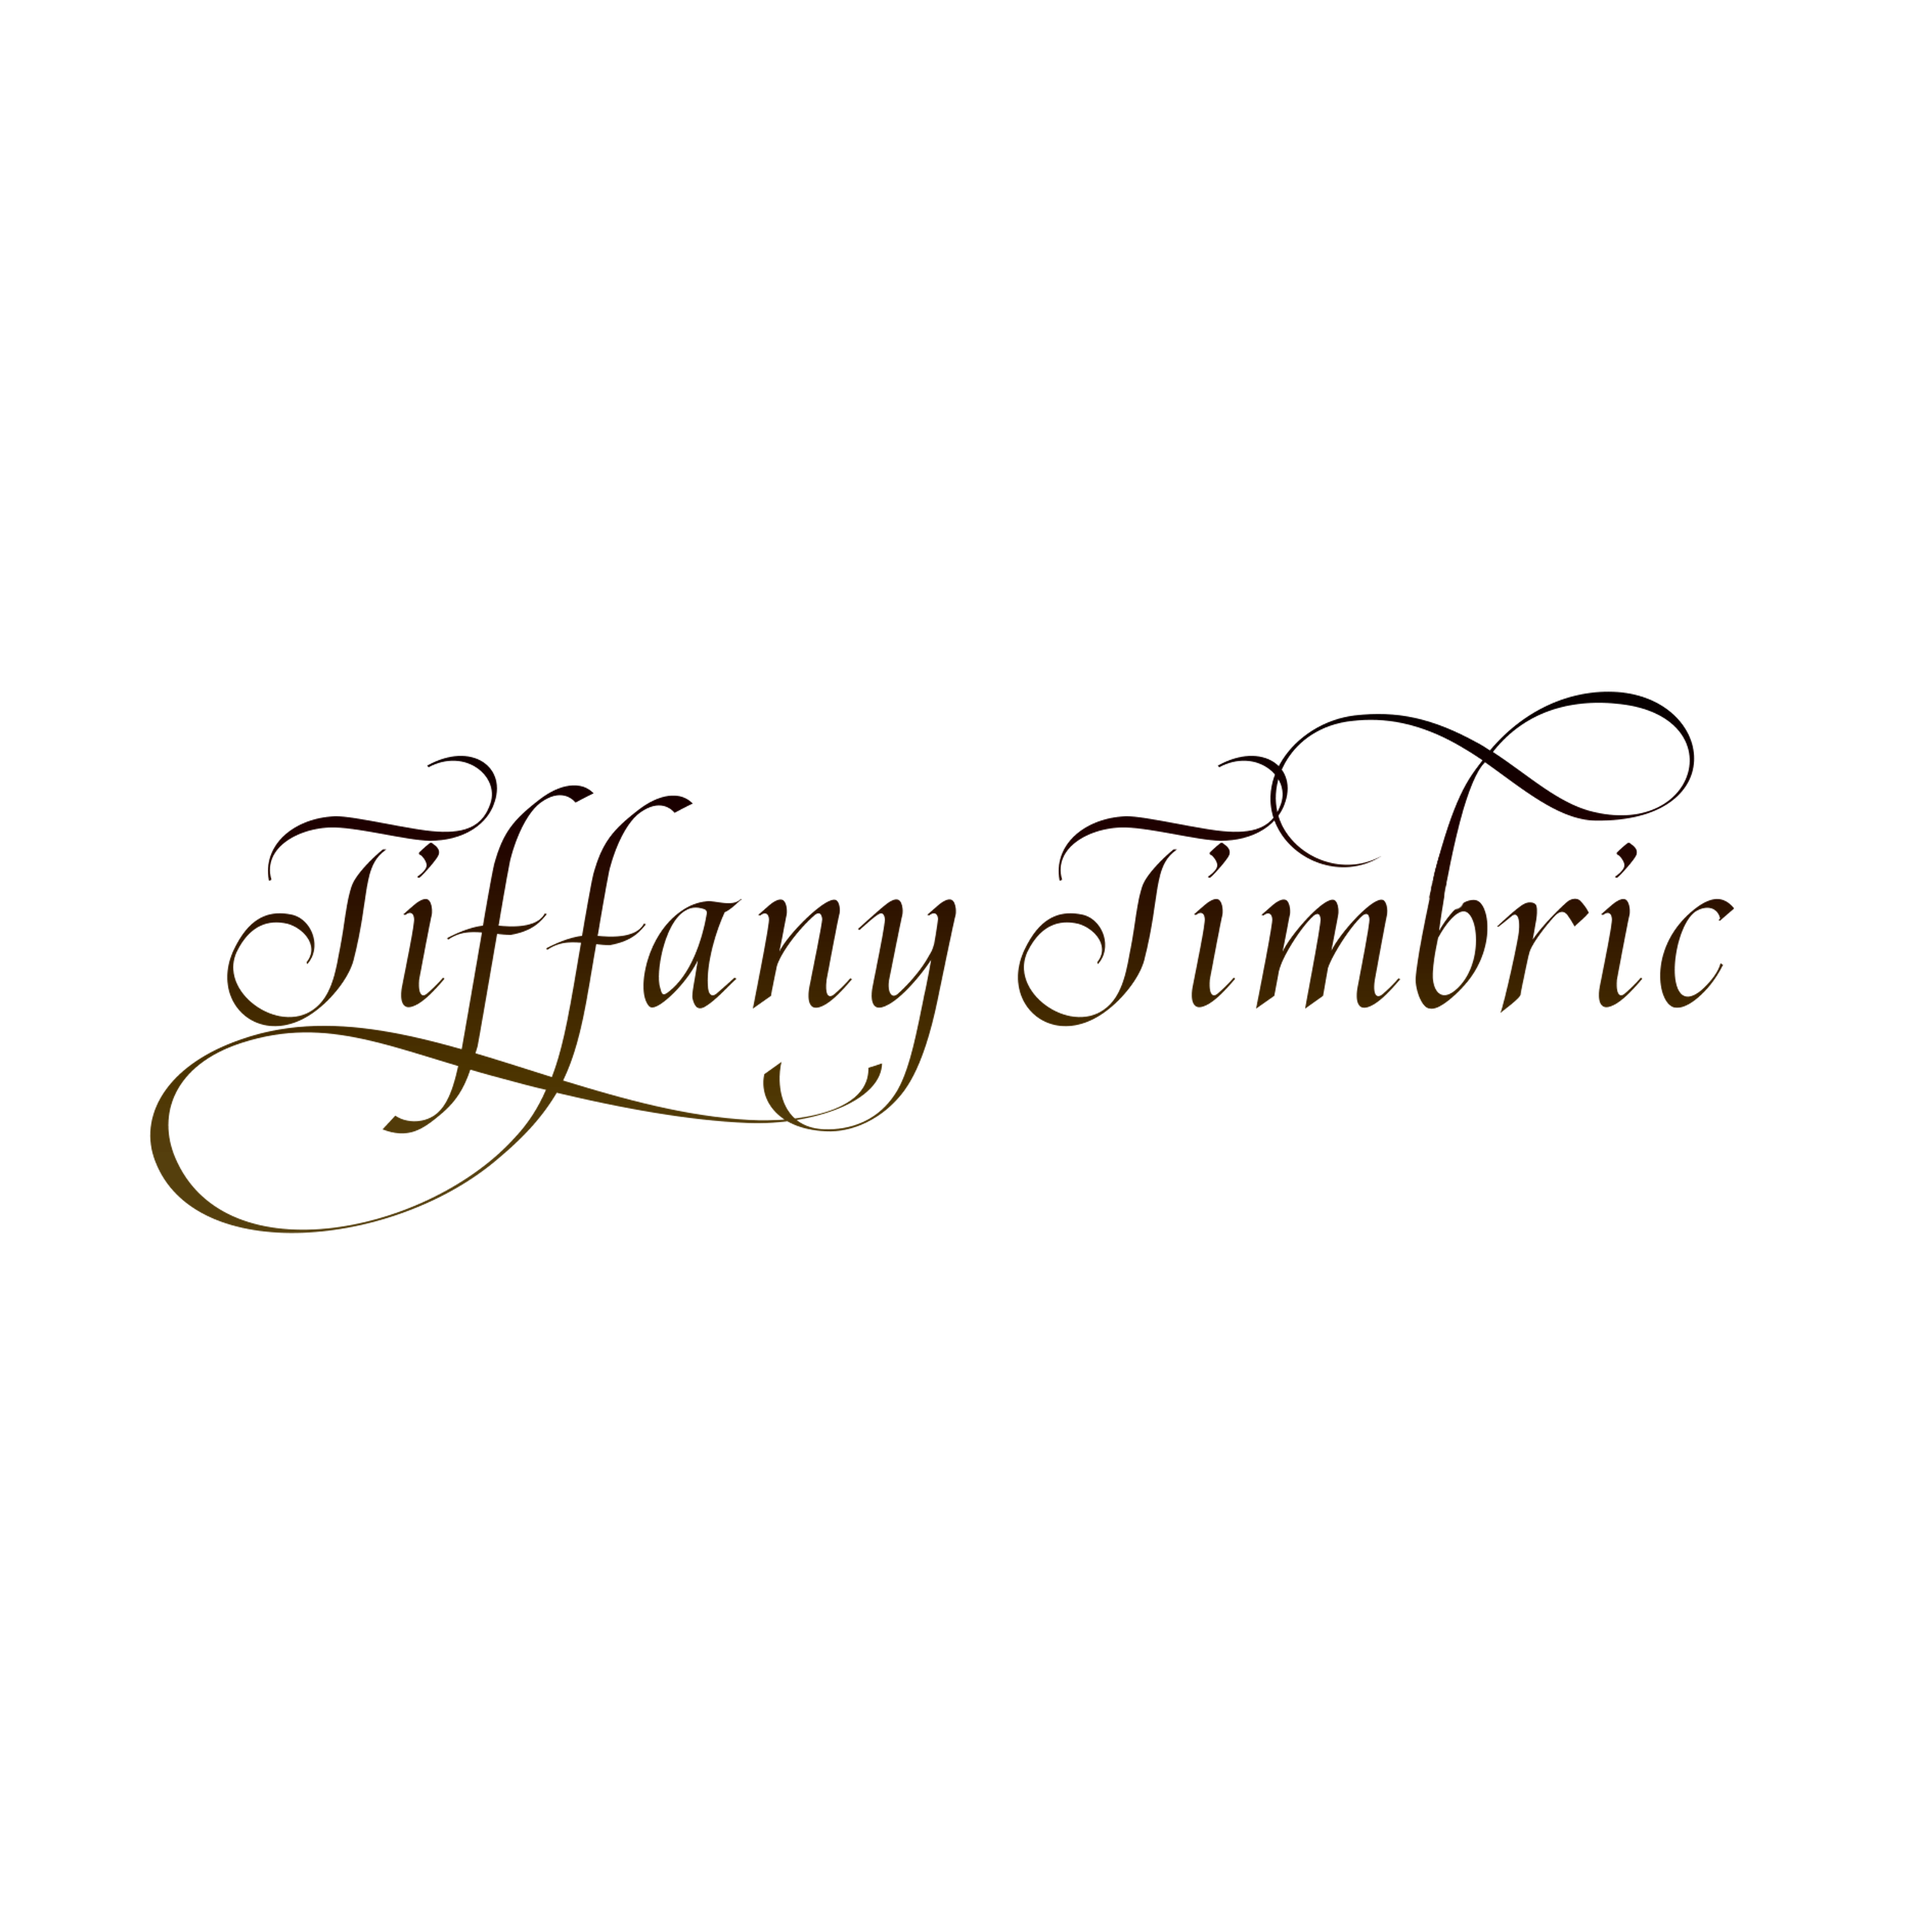
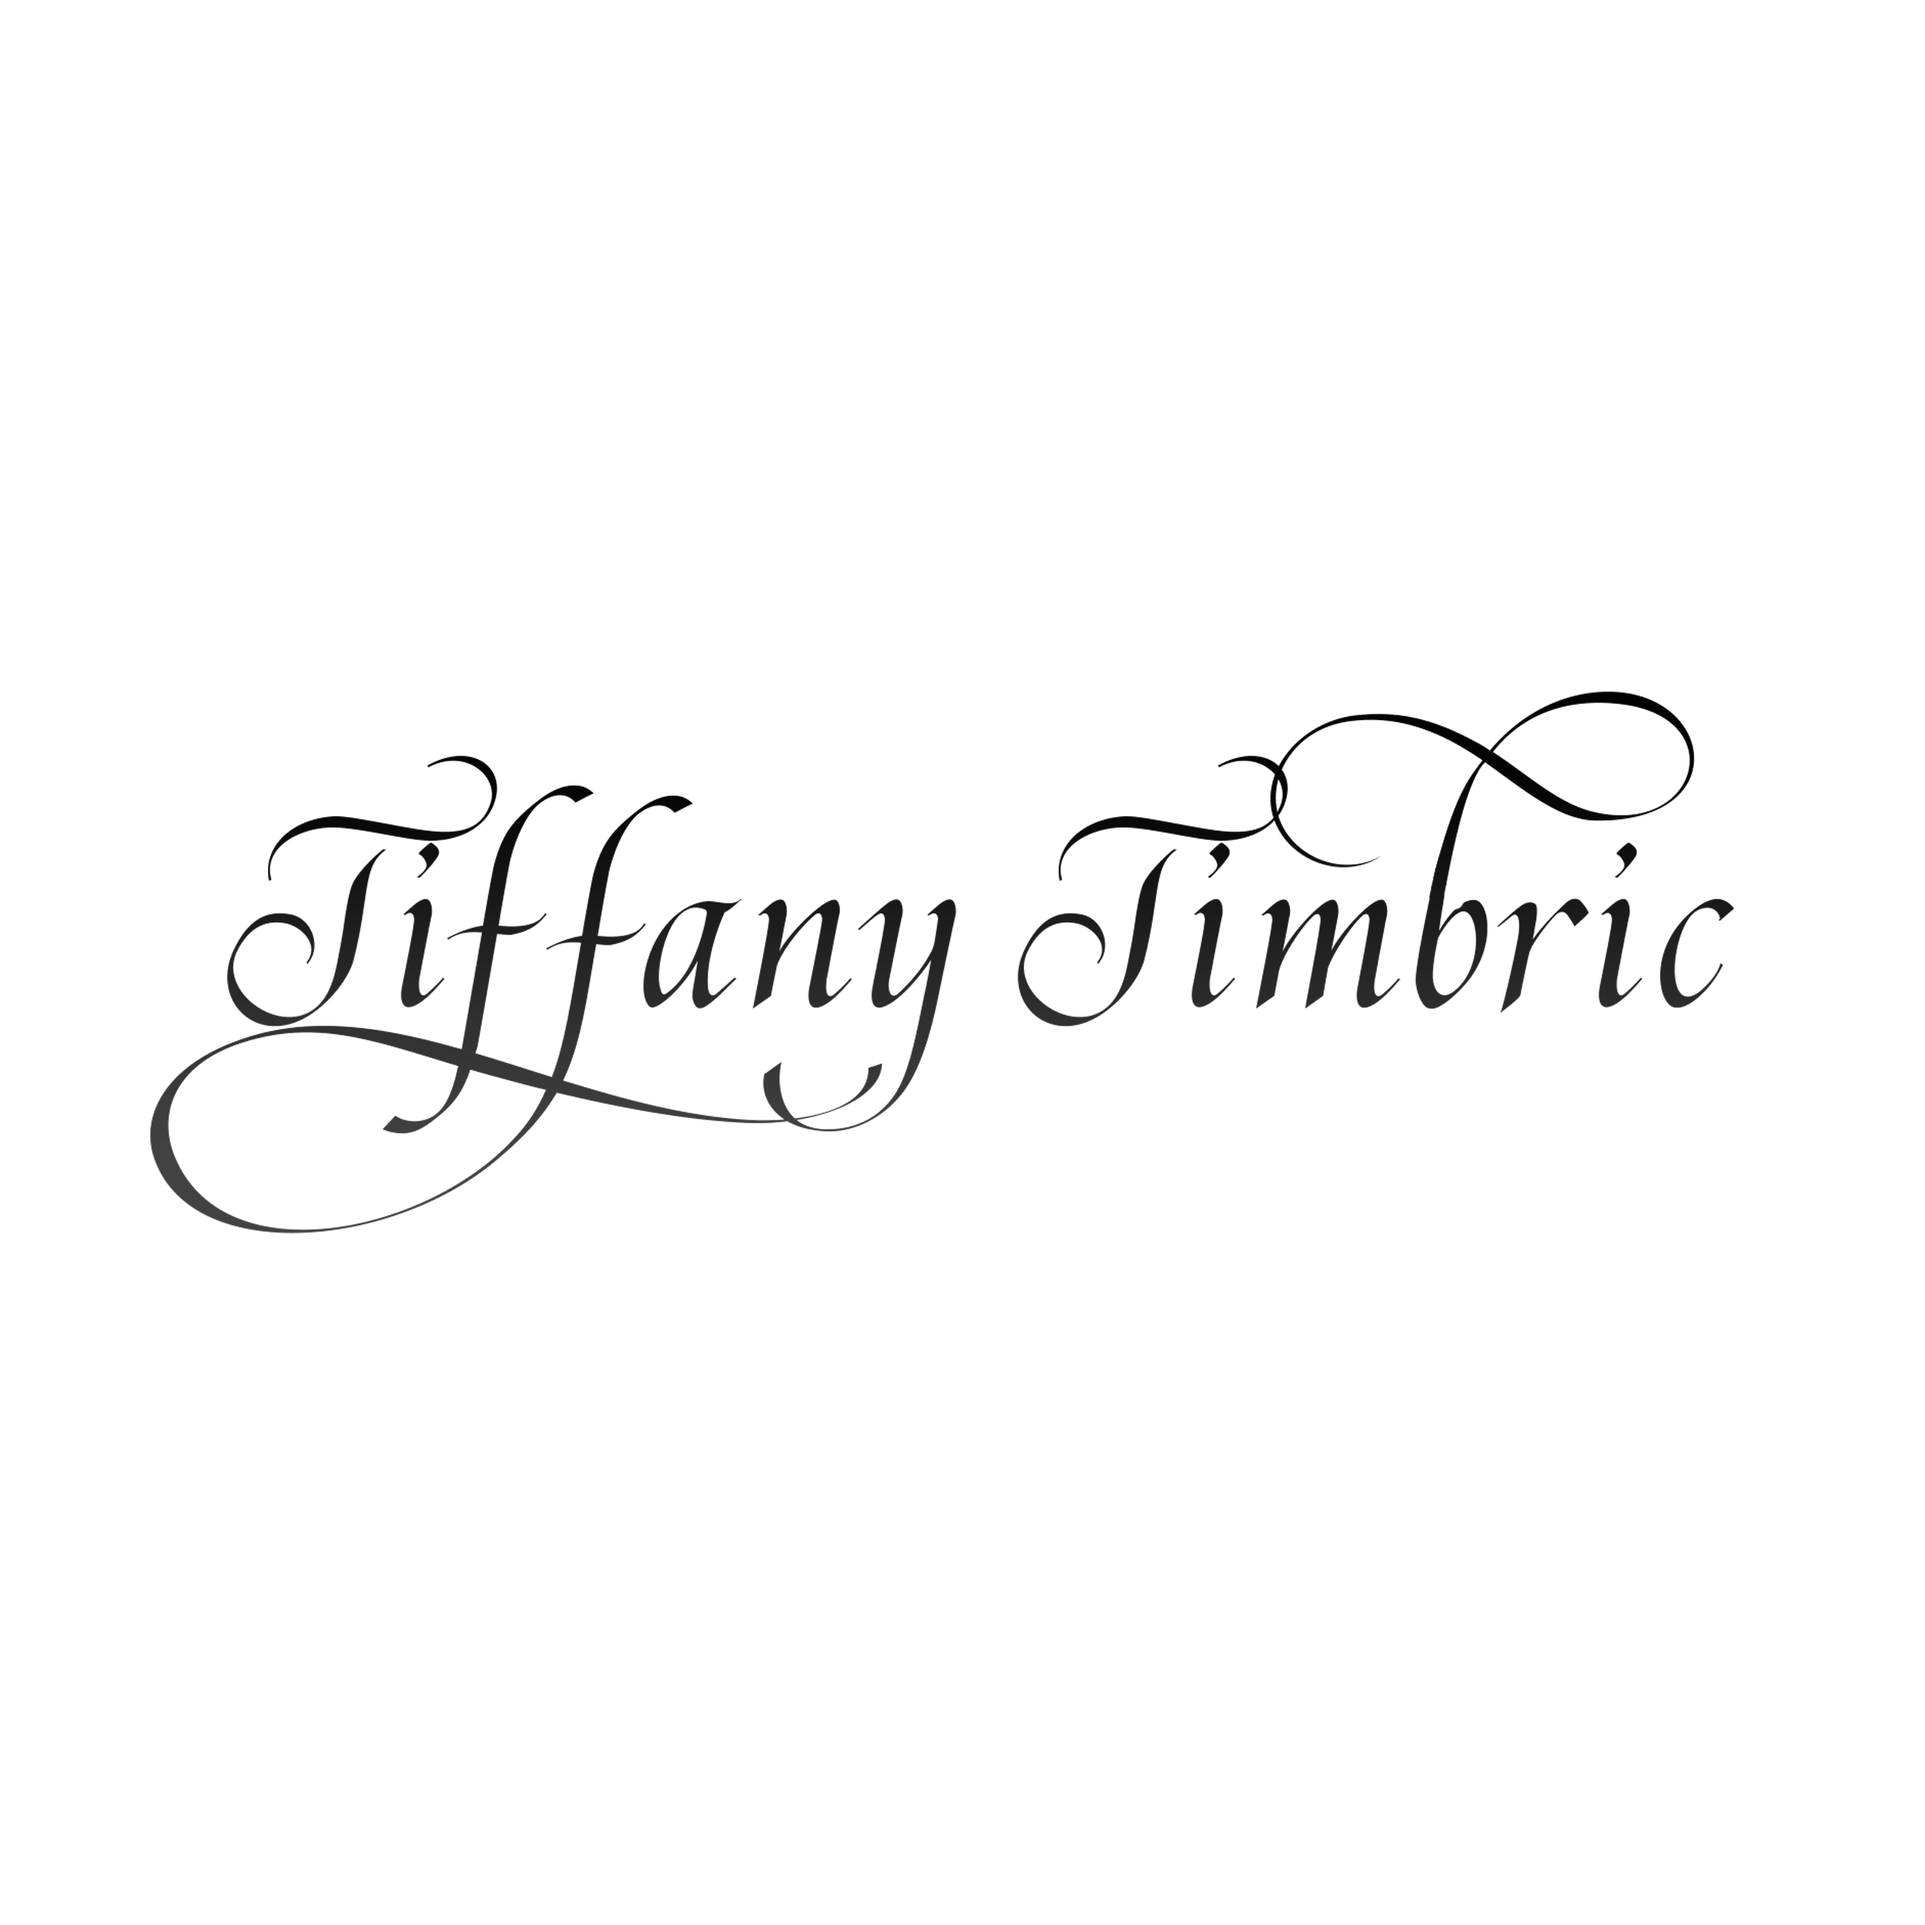
Updates.

diff --git a/html/tiffanytimbric/index.html b/html/tiffanytimbric/index.html
@@ -21,9 +21,11 @@
 		}
 
 		body {
-		  background-image: url("images/pink_green_colors.png");
+			background-color: Black;
+		  /* background-image: url("images/pink_green_colors.png"); */
 		  background-repeat: repeat-y;
 			background-size: contain;
+			color: Gray
 		}
 	</style>
 	<script type="text/javascript" src="https://platform.linkedin.com/badges/js/profile.js" async defer></script>
